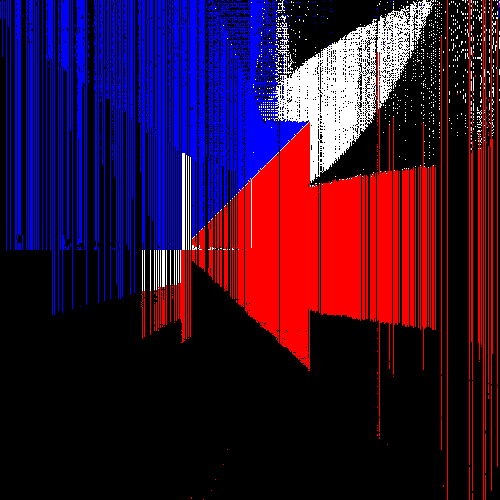
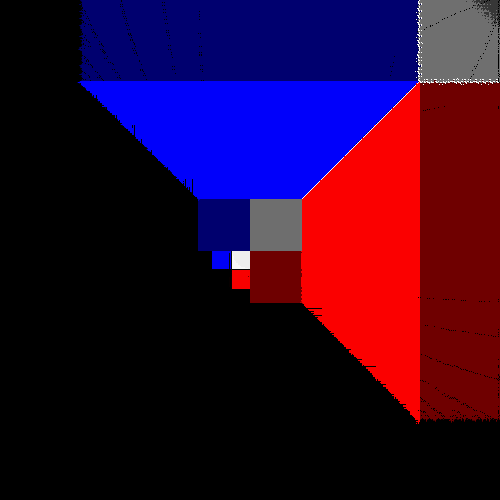
signed raygen stuff

diff --git a/simpleRayTracer/RayTracingUnit_tb.cpp b/simpleRayTracer/RayTracingUnit_tb.cpp
@@ -29,15 +29,15 @@ int main(int argc, char** argv, char** env) {
     int image_height = 500;
     top->clk = 0;
     top->reset = 1;
-    top->cameraPosX = 250;
-    top->cameraPosY = 250;
+    top->cameraPosX = 260;
+    top->cameraPosY = 260;
     top->cameraPosZ = 400;
-    top->cameraDirX = 70;
+    top->cameraDirX = 0;
     top->cameraDirY = 0;
-    top->cameraDirZ = 70; // Assuming the camera is pointing in the positive z direction
+    top->cameraDirZ = 75; // Assuming the camera is pointing in the positive z direction
     top->cameraRightX = 1;
     top->cameraRightY = 0;
-    top->cameraRightZ = -1;
+    top->cameraRightZ = 0;
     top->cameraUpX = 0;
     top->cameraUpY = 1;
     top->cameraUpZ = 0;

diff --git a/simpleRayTracer/RayProcessor_tb.cpp b/simpleRayTracer/RayProcessor_tb.cpp
@@ -41,11 +41,11 @@ int main(int argc, char** argv, char** env) {
     int image_height = 200;
     top->clk = 0;
     top->reset = 1;
-    top->cameraPosX = 400;
-    top->cameraPosY = 800;
+    top->cameraPosX = 512;
+    top->cameraPosY = 512;
     top->cameraPosZ = 0;
-    top->cameraDirX = 50;
-    top->cameraDirY = -30;
+    top->cameraDirX = 0;
+    top->cameraDirY = 0;
     top->cameraDirZ = 80; // Assuming the camera is pointing in the positive z direction
     top->imageWidth = image_width;
     top->imageHeight = image_height;
